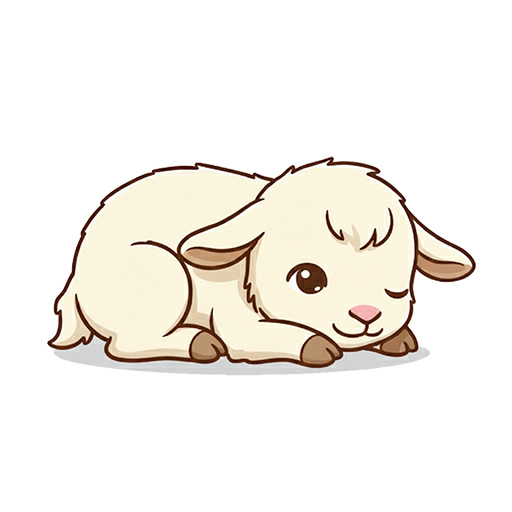
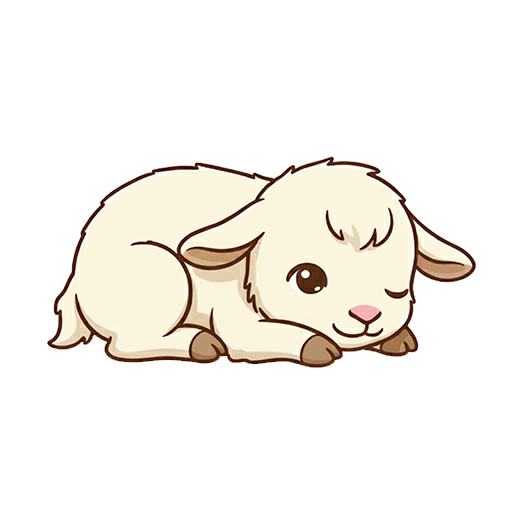
“寝てる演出増やす４”

Changed region(s): [[0.0938, 0.6562, 0.8438, 0.75]]

diff --git a/main.js b/main.js
@@ -36,16 +36,6 @@ let idleRAF = null;
 
 /* ===== 睡眠演出用 ===== */
 let sleepTimer = null;
-let sleepStage = 0;
-
-const sleepStages = [
-  'assets/goat_sleep.png', // 寝
-  'assets/goat_eye.png',   // 片目
-  'assets/goat_ear.png',   // 耳ピク
-  'assets/goat_yawn.png'   // あくび（レア）
-];
-
-const YAWN_RATE = 0.05; // 5%（かなり稀）
 
 /* ===== メッセージ ===== */
 const messages = [
@@ -80,7 +70,7 @@ function stopIdleBreath() {
   }
 }
 
-/* ===== 睡眠演出 ===== */
+/* ===== 睡眠演出（頻度調整済み） ===== */
 function startSleepSequence() {
   clearTimeout(sleepTimer);
   goat.src = 'assets/goat_sleep.png';
@@ -89,35 +79,35 @@ function startSleepSequence() {
     if (state !== State.GATE) return;
 
     const r = Math.random();
-
     let reaction = null;
+    let duration = 900;
 
-    if (r < 0.03) {
-      reaction = 'assets/goat_yawn.png';   // 超レア
-    } else if (r < 0.10) {
-      reaction = 'assets/goat_ear.png';    // たまに
-    } else if (r < 0.25) {
-      reaction = 'assets/goat_eye.png';    // わりと見る
+    if (r < 0.05) {
+      reaction = 'assets/goat_yawn.png'; // レア 5%
+      duration = 1400;
+    } else if (r < 0.15) {
+      reaction = 'assets/goat_eye.png';  // たまに 10%
+      duration = 1000;
+    } else if (r < 0.40) {
+      reaction = 'assets/goat_ear.png';  // 頻繁 25%
+      duration = 800;
     }
+    // それ以外（60%）は寝たまま
 
     if (reaction) {
       goat.src = reaction;
 
-      // 一瞬だけ見せてすぐ寝る
       sleepTimer = setTimeout(() => {
         goat.src = 'assets/goat_sleep.png';
         sleepTimer = setTimeout(tryReaction, 2500);
-      }, 1000);
-
+      }, duration);
     } else {
-      // 何も起きない時間
       sleepTimer = setTimeout(tryReaction, 2500);
     }
   }
 
   sleepTimer = setTimeout(tryReaction, 2000);
 }
-
 
 /* ===== 状態変更 ===== */
 function setState(next) {
